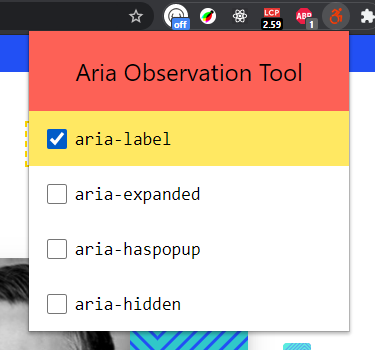
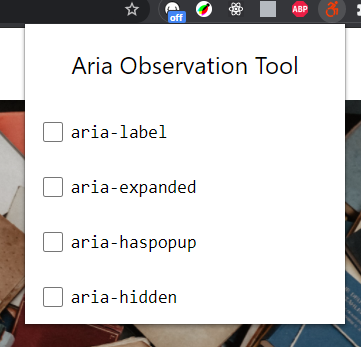
update readme

diff --git a/popup.js b/popup.js
@@ -1,4 +1,8 @@
 const ALabel = document.getElementById('aria-label');
+const AExpanded = document.getElementById('aria-expanded');
+const AHaspopup = document.getElementById('aria-haspopup');
+const AHidden = document.getElementById('aria-hidden');
+
 
 ALabel.addEventListener('click', async () => {
   const [tab] = await chrome.tabs.query({ active: true, currentWindow: true });
@@ -10,24 +14,33 @@ ALabel.addEventListener('click', async () => {
 })
 
 function ariaLabel() {
-  const a = document.querySelectorAll('a');
+  const span = document.querySelectorAll('span');
   const btn = document.querySelectorAll('button');
+  const svg = document.querySelectorAll('svg');
 
-  for (let i = 0; i < a.length; i++) {
-    if (a[i].ariaLabel === null) {
-      a[i].style.outline = '2px dashed #ffd900';
+  // Span
+  for (let i = 0; i < span.length; i++) {
+    if (span[i].ariaLabel === null) {
+      span[i].style.outline = '2px dashed #ffd900';
     }
-    // console.log(a[i]);
+    // console.log(span[i]);
   }
 
+  // Button
   for (let i = 0; i < btn.length; i++) {
     if (btn[i].ariaLabel === null) {
       btn[i].style.outline = '2px dashed #ffd900';
     }
   }
+
+  // SVG
+  for (let i = 0; i < svg.length; i++) {
+    if (svg[i].ariaLabel === null) {
+      svg[i].style.outline = '2px dashed #ffd900';
+    }
+  }
 }
 
-const AExpanded = document.getElementById('aria-expanded');
 
 AExpanded.addEventListener('click', async () => {
   const [tab] = await chrome.tabs.query({ active: true, currentWindow: true });
@@ -39,18 +52,72 @@ AExpanded.addEventListener('click', async () => {
 })
 
 function ariaExpanded() {
-  const a = document.querySelectorAll('a');
+  const span = document.querySelectorAll('span');
   const btn = document.querySelectorAll('button');
 
-  for (let i = 0; i < a.length; i++) {
-    if (a[i].ariaExpanded === null) {
-      a[i].style.outline = '2px dashed #f10';
+  for (let i = 0; i < span.length; i++) {
+    if (span[i].ariaExpanded === null) {
+      span[i].style.outline = '2px dashed #f10000';
     }
   }
 
   for (let i = 0; i < btn.length; i++) {
     if (btn[i].ariaExpanded === null) {
-      btn[i].style.outline = '2px dashed #f10';
+      btn[i].style.outline = '2px dashed #f10000';
     }
   }
+}
+
+
+AHaspopup.addEventListener('click', async () => {
+  const [tab] = await chrome.tabs.query({ active: true, currentWindow: true });
+
+  chrome.scripting.executeScript({
+    target: { tabId: tab.id },
+    function: ariaHaspopup,
+  });
+})
+
+function ariaHaspopup() {
+  const span = document.querySelectorAll('span');
+  const svg = document.querySelectorAll('svg');
+
+  for (let i = 0; i < span.length; i++) {
+    if (span[i].ariaHasPopup === null) {
+      span[i].style.outline = '2px dashed violet';
+    }
+  }
+
+  for (let i = 0; i < svg.length; i++) {
+    if (svg[i].ariaHasPopup === null) {
+      svg[i].style.outline = '2px dashed violet';
+    }
+  }
+}
+
+
+AHidden.addEventListener('click', async () => {
+  const [tab] = await chrome.tabs.query({ active: true, currentWindow: true });
+
+  chrome.scripting.executeScript({
+    target: { tabId: tab.id },
+    function: ariaExpanded,
+  });
+})
+
+function ariaExpanded() {
+  const btn = document.querySelectorAll('button');
+  // const svg = document.querySelectorAll('svg');
+
+  for (let i = 0; i < btn.length; i++) {
+    if (btn[i].ariaExpanded === null) {
+      btn[i].style.outline = '2px dashed orange';
+    }
+  }
+
+  // for (let i = 0; i < svg.length; i++) {
+  //   if (svg[i].ariaExpanded === null) {
+  //     svg[i].style.outline = '2px dashed orange';
+  //   }
+  // }
 }

diff --git a/popup.html b/popup.html
@@ -17,6 +17,11 @@
       <input type="checkbox" id="aria-label">
       <code>aria-label</code>
     </label>
+    <!-- <details>
+      <code>button</code>
+      <code>svg</code>
+      <code>span</code>
+    </details> -->
     <!-- <label for="aria-labelledby">
       <input type="checkbox" id="aria-labelledby">
       <code>aria-labelledby</code>

diff --git a/css/styles.css b/css/styles.css
@@ -25,7 +25,6 @@ button:not([aria-label]) {
 
 body {
   width: 320px;
-  background: #fd6156;
 }
 
 h1 {
@@ -52,7 +51,7 @@ label {
 }
 
 label:hover {
-  background: #ffe862;
+  background: #ffe02f;
 }
 
 input[type='checkbox'] {

diff --git a/readme.md b/readme.md
@@ -1,7 +1,12 @@
 # ARIA Observation Tool Extension
 ![preview](./icons/1.png)
 
-Herramienta como extensión del navegador para observar si en las etiquetas HTML están aplicados los atributos "ARIA".
+Está herramienta sirve para observar algunos atributos ARIA.
+* `aria-label`
+* `aria-expanded`
+* `aria-haspopup`
+* `aria-hidden`
+
 
 Si no están aplicados serán remarcados con un color en los bordes.
 
